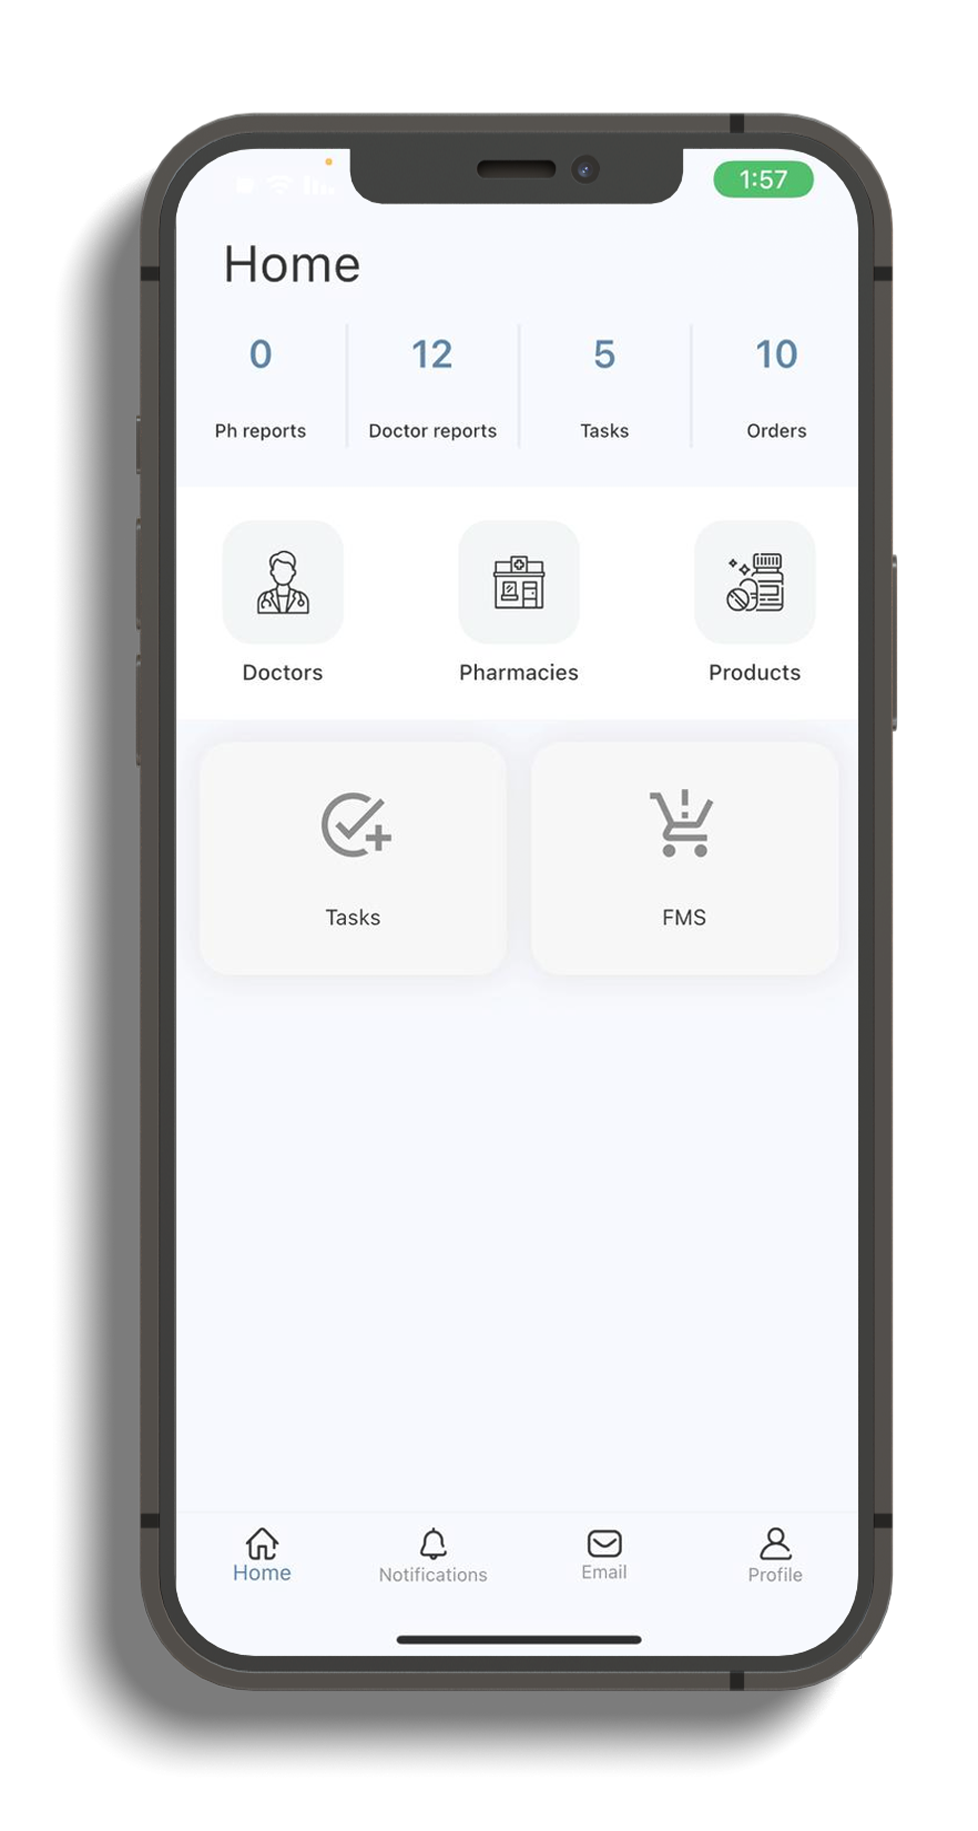
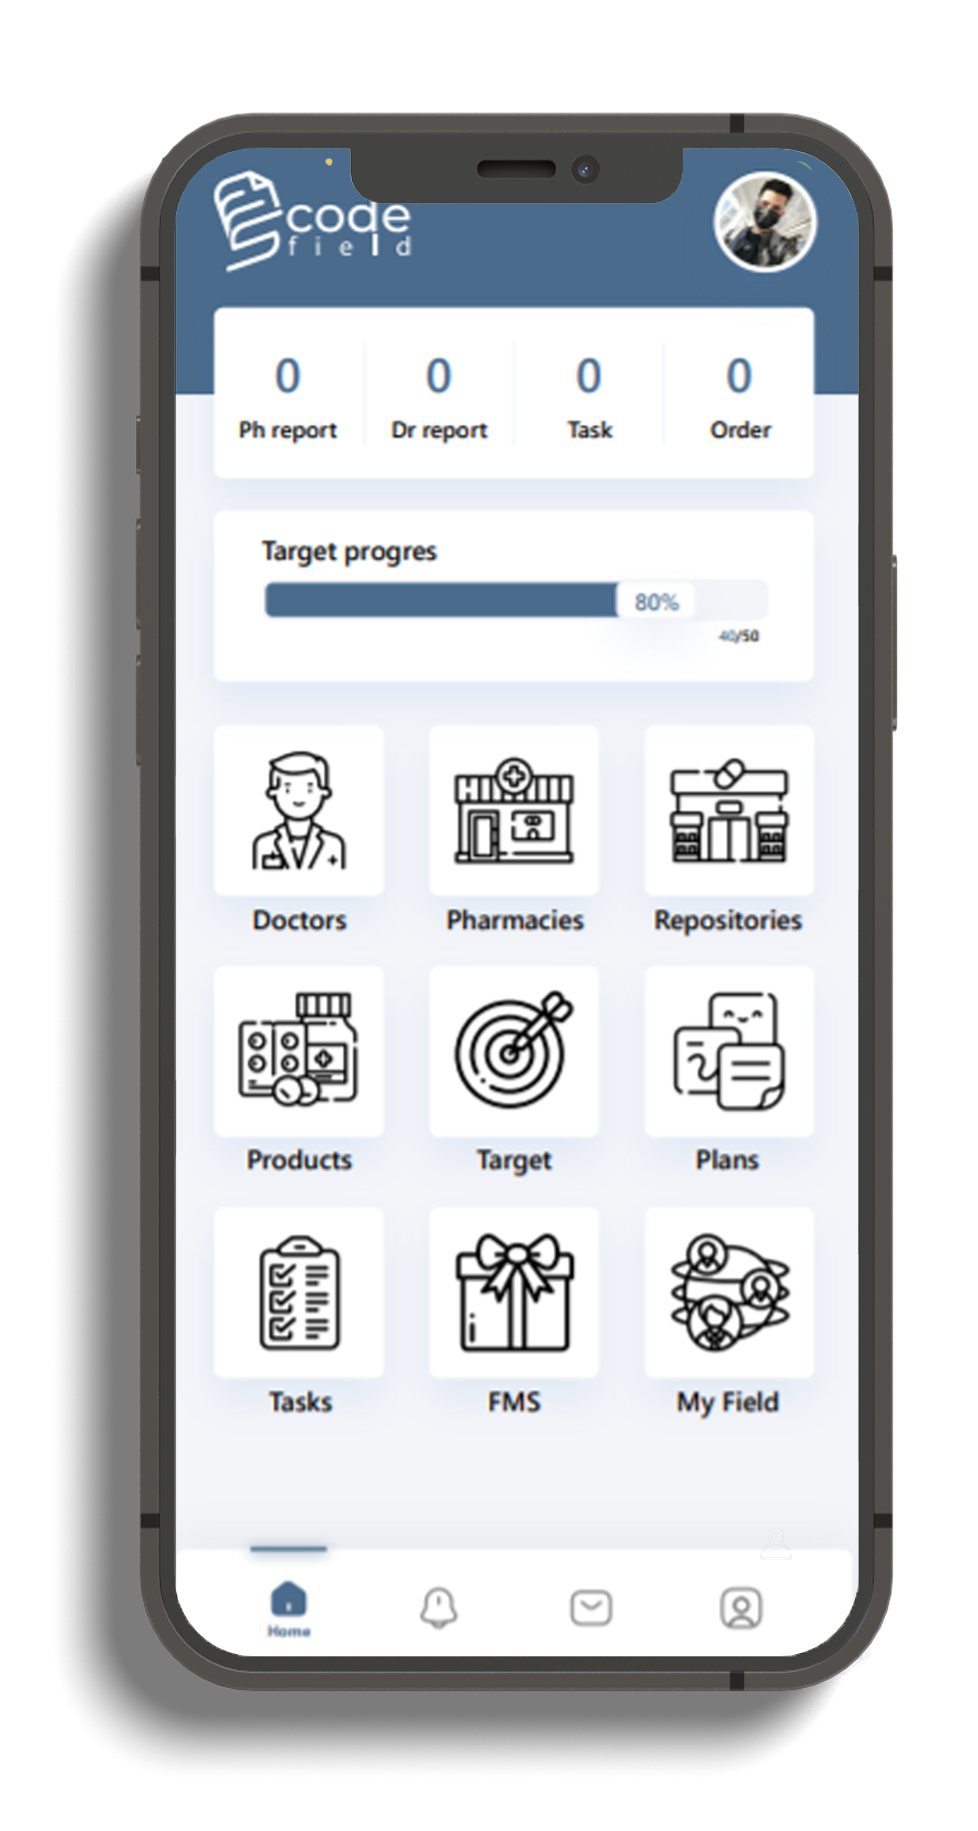
updated

diff --git a/index.html b/index.html
@@ -265,7 +265,7 @@
 
             <div class="row align-items-center">
                 <div class="col-lg-5 col-md-6 mt-4 pt-2">
-                    <img src="assets/phone1.png" class="img-fluid mx-auto d-block" alt="">
+                    <img src="assets/phone2.png" class="img-fluid mx-auto d-block" alt="">
                 </div>
                 <!--end col-->
 
@@ -321,6 +321,7 @@
                 <div class="col-12 text-center">
                     <div class="section-title mb-4 pb-2">
                         <h4 class="title mb-4">Choose The Pricing Plan</h4>
+                        <h5>39$/User per month</h55>
                     </div>
                 </div>
                 <!--end col-->
@@ -331,27 +332,93 @@
 
 
                 <div class="col-md-4 col-12 mt-4 pt-2">
-                    <div class="card  pricing-rates starter-plan bg-light py-5 rounded text-center">
+                    <div class="card  pricing-rates  bg-light py-5 rounded text-center">
                         <div class="card-body">
-                            <h4 class="title fw-bold text-uppercase text-primary mb-4">Starter</h4>
-                            <h6 class=" text-uppercase text-primary mb-4">Free trial 14 days</h6>
+                            <h4 class="title fw-bold text-uppercase text-primary mb-4">3 months</h4>
+                            <h6 class=" text-uppercase text-primary mb-4">Discount
+                                <span class="bg-primary text-white rounded-3 p-1">
+                                    10%
+                                </span>
+                            </h6>
                             <div class="d-flex justify-content-center mb-4">
                                 <span class="h4 mb-0 mt-2">$</span>
-                                <span class="price h1 mb-0">20</span>
+                                <span class="price h1 mb-0">35.1</span>
                                 <span class="h4 align-self-end mb-1">/mo</span>
                             </div>
 
                             <ul class="list-unstyled mb-0 ps-0">
                                 <li class="h6 text-muted mb-0"><span class="text-primary h5 me-2"><i
                                             class="uil uil-check-circle align-middle"></i></span>Full Access</li>
-                                <!-- <li class="h6 text-muted mb-0"><span class="text-primary h5 me-2"><i
-                                            class="uil uil-check-circle align-middle"></i></span>Source Files</li> -->
                             </ul>
                             <a href="contact-us.html" class="btn btn-primary mt-4">Get Started</a>
                         </div>
                     </div>
                 </div>
+                <div class="col-md-4 col-12 mt-4 pt-2">
+                    <div class="card  pricing-rates starter-plan bg-light py-5 rounded text-center">
+                        <div class="card-body">
+                            <h4 class="title fw-bold text-uppercase text-primary mb-4"> 6 months</h4>
+                            <h6 class=" text-uppercase text-primary mb-4">discount <span
+                                    class="bg-primary text-white rounded-3 p-1">
+                                    25%
+                                </span></h6>
+                            <div class="d-flex justify-content-center mb-4">
+                                <span class="h4 mb-0 mt-2">$</span>
+                                <span class="price h1 mb-0">29.25</span>
+                                <span class="h4 align-self-end mb-1">/mo</span>
+                            </div>
 
+                            <ul class="list-unstyled mb-0 ps-0">
+                                <li class="h6 text-muted mb-0"><span class="text-primary h5 me-2"><i
+                                            class="uil uil-check-circle align-middle"></i></span>Full Access</li>
+                            </ul>
+                            <a href="contact-us.html" class="btn btn-primary mt-4">Get Started</a>
+                        </div>
+                    </div>
+                </div>
+                <div class="col-md-4 col-12 mt-4 pt-2">
+                    <div class="card  pricing-rates  bg-light py-5 rounded text-center">
+                        <div class="card-body">
+                            <h4 class="title fw-bold text-uppercase text-primary mb-4">1 year</h4>
+                            <h6 class=" text-uppercase text-primary mb-4">Discount <span
+                                    class="bg-primary text-white rounded-3 p-1">
+                                    50%
+                                </span></h6>
+                            <div class="d-flex justify-content-center mb-4">
+                                <span class="h4 mb-0 mt-2">$</span>
+                                <span class="price h1 mb-0">19.5$</span>
+                                <span class="h4 align-self-end mb-1">/mo</span>
+                            </div>
+
+                            <ul class="list-unstyled mb-0 ps-0">
+                                <li class="h6 text-muted mb-0"><span class="text-primary h5 me-2"><i
+                                            class="uil uil-check-circle align-middle"></i></span>Full Access</li>
+                            </ul>
+                            <a href="contact-us.html" class="btn btn-primary mt-4">Get Started</a>
+                        </div>
+                    </div>
+                </div>
+                <div class="col-md-4 col-12 mt-4 pt-2">
+                    <div class="card  pricing-rates  bg-light py-5 rounded text-center">
+                        <div class="card-body">
+                            <h4 class="title fw-bold text-uppercase text-primary mb-4">Golden Package</h4>
+                            <!-- <h6 class=" text-uppercase text-primary mb-4">one time only
+                            </h6> -->
+                            <h5>3 Months for only </h5>
+                            <div class="d-flex justify-content-center mb-4">
+                                <span class="h4 mb-0 mt-2">$</span>
+                                <span class="price h1 mb-0">10$</span>
+                                <span class="h4 align-self-end mb-1">/mo per user</span>
+                            </div>
+
+                            <ul class="list-unstyled mb-0 ps-0">
+                                <li class="h6 text-muted mb-0"><span class="text-primary h5 me-2"><i
+                                            class="uil uil-check-circle align-middle"></i></span>Full Access</li>
+                            </ul>
+                            <a href="contact-us.html" class="btn btn-primary mt-4">Get Started</a>
+                        </div>
+                    </div>
+                </div>
                 <!--end col-->
             </div>
             <!--end row-->
@@ -495,8 +562,10 @@
                     <div class="col-sm-6">
                         <div class="text-sm-start">
                             <p class="mb-0">©
-                                <script>document.write(new Date().getFullYear())</script> Scode field by <a
-                                    href="scode.tech" target="_blank" class="text-reset">Scode Tech.</a>
+                                <script>
+                                    document.write(new Date().getFullYear())
+                                </script> Scode field by <a href="scode.tech" target="_blank" class="text-reset">Scode
+                                    Tech.</a>
                             </p>
                         </div>
                     </div>
